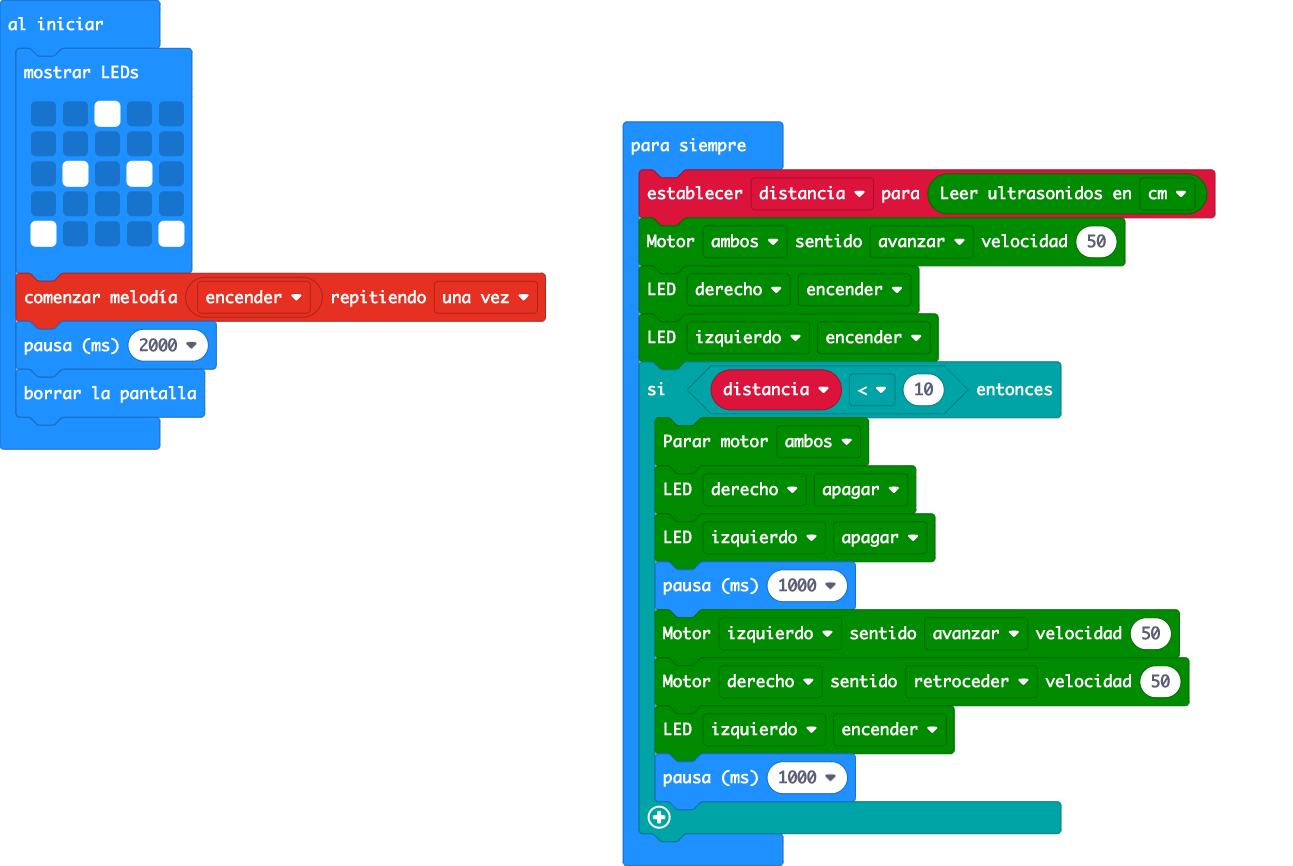
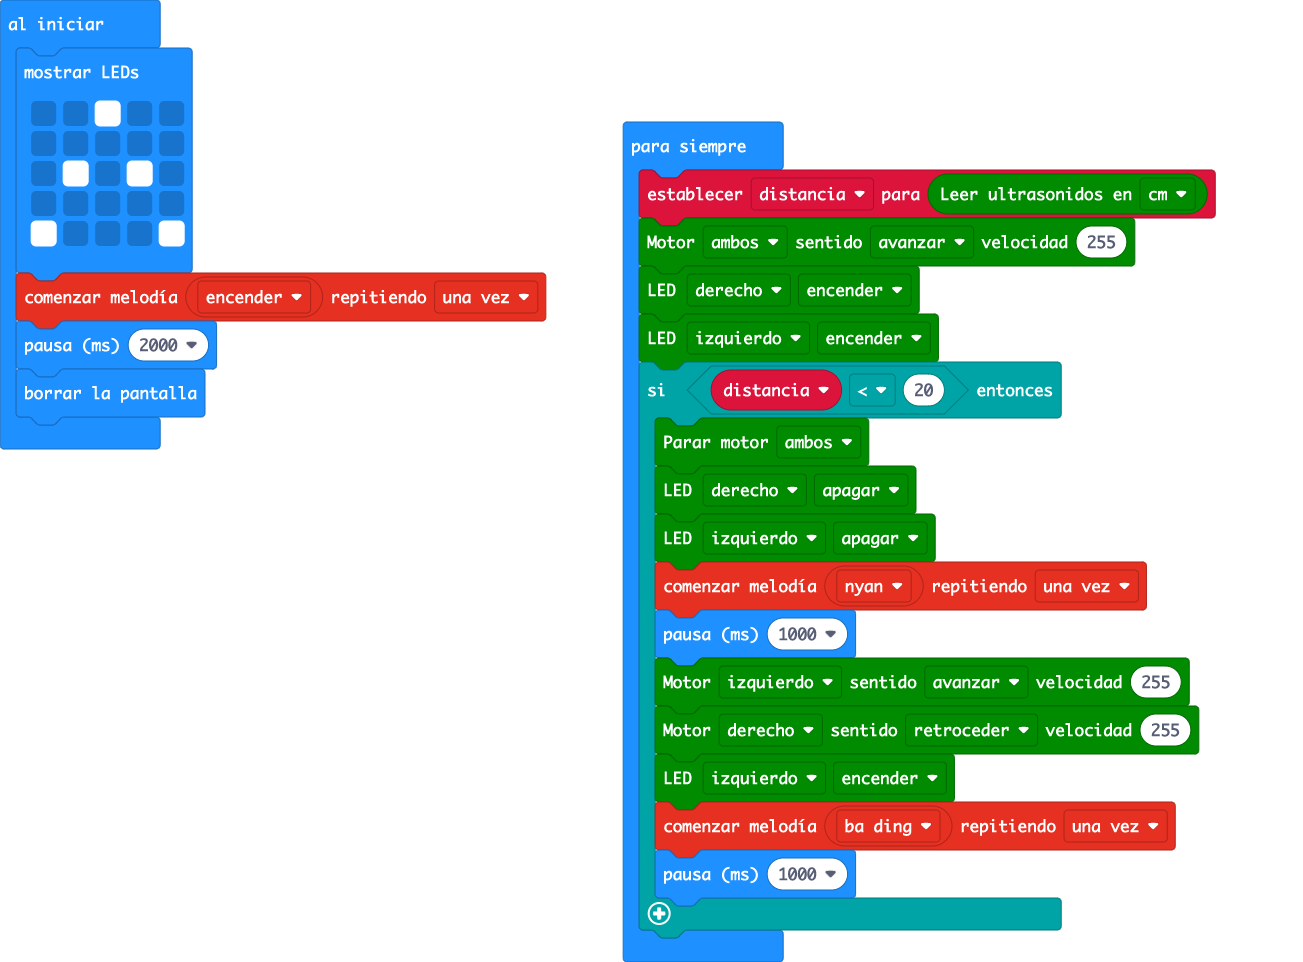
Actualizar main.blocks, main.ts

Changed region(s): [[0.464, 0.1247, 0.959, 1.0], [0.0, 0.0, 0.4331, 0.53]]

diff --git a/main.ts b/main.ts
@@ -11,17 +11,19 @@ basic.pause(2000)
 basic.clearScreen()
 basic.forever(function () {
     distancia = maqueen.Ultrasonic(PingUnit.Centimeters)
-    maqueen.motorRun(maqueen.Motors.All, maqueen.Dir.CW, 50)
+    maqueen.motorRun(maqueen.Motors.All, maqueen.Dir.CW, 255)
     maqueen.writeLED(maqueen.LED.LEDLeft, maqueen.LEDswitch.turnOn)
     maqueen.writeLED(maqueen.LED.LEDRight, maqueen.LEDswitch.turnOn)
-    if (distancia < 10) {
+    if (distancia < 20) {
         maqueen.motorStop(maqueen.Motors.All)
         maqueen.writeLED(maqueen.LED.LEDLeft, maqueen.LEDswitch.turnOff)
         maqueen.writeLED(maqueen.LED.LEDRight, maqueen.LEDswitch.turnOff)
+        music.startMelody(music.builtInMelody(Melodies.Nyan), MelodyOptions.Once)
         basic.pause(1000)
-        maqueen.motorRun(maqueen.Motors.M1, maqueen.Dir.CW, 50)
-        maqueen.motorRun(maqueen.Motors.M2, maqueen.Dir.CCW, 50)
+        maqueen.motorRun(maqueen.Motors.M1, maqueen.Dir.CW, 255)
+        maqueen.motorRun(maqueen.Motors.M2, maqueen.Dir.CCW, 255)
         maqueen.writeLED(maqueen.LED.LEDRight, maqueen.LEDswitch.turnOn)
+        music.startMelody(music.builtInMelody(Melodies.BaDing), MelodyOptions.Once)
         basic.pause(1000)
     }
 })
